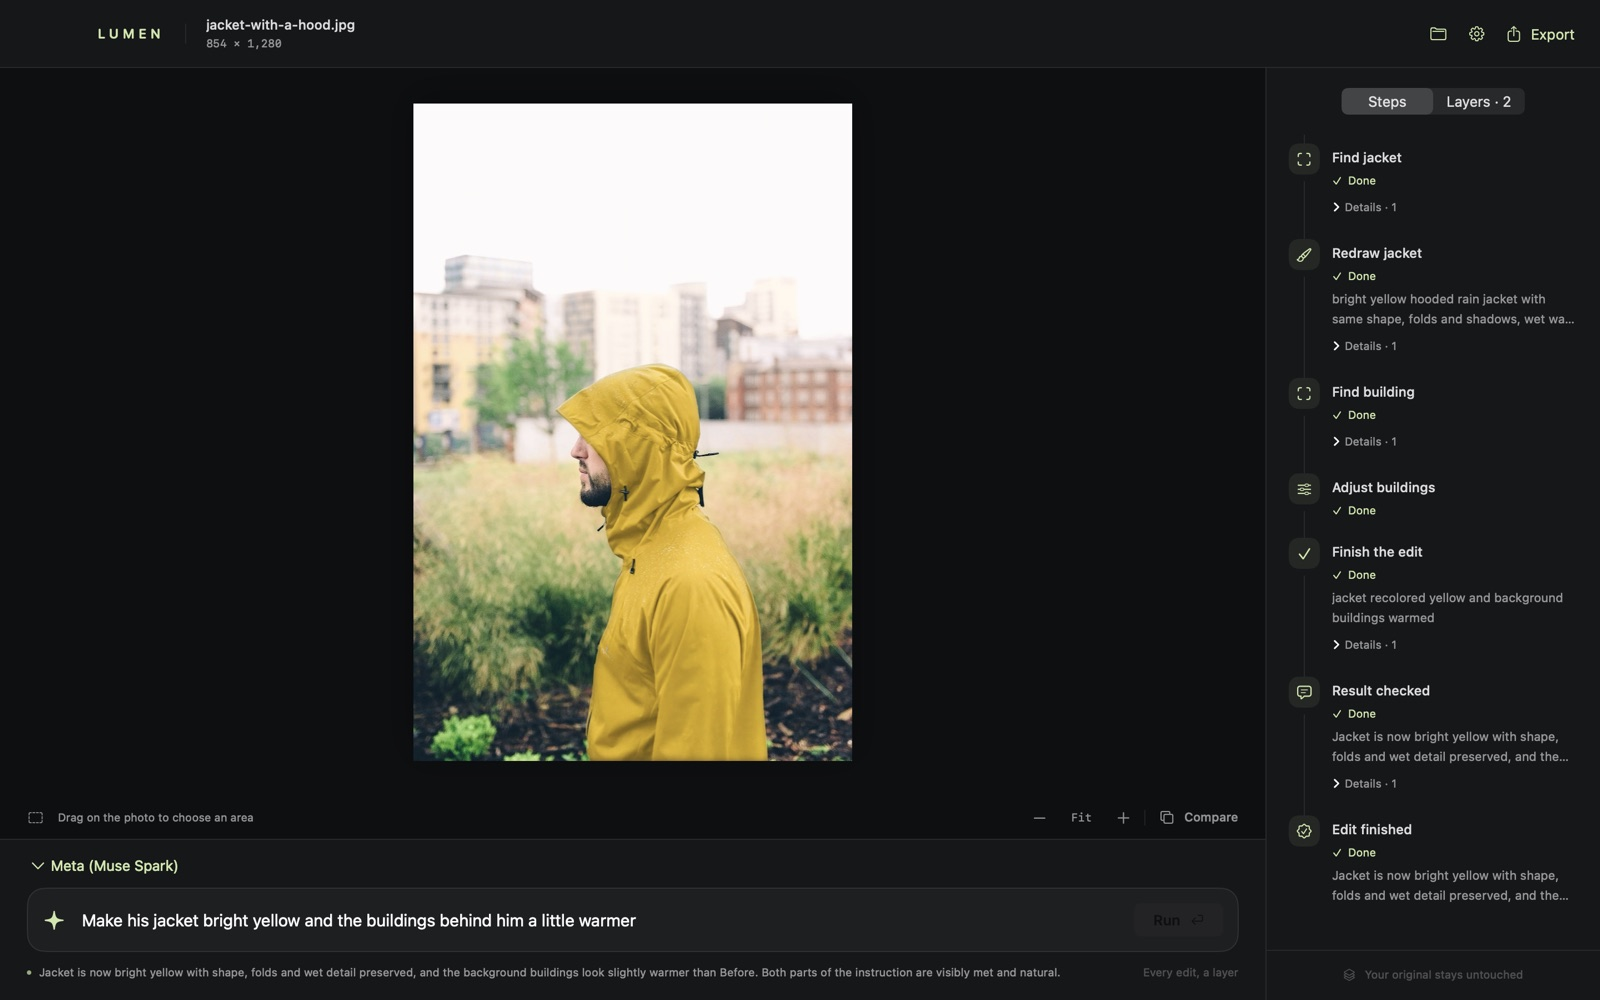
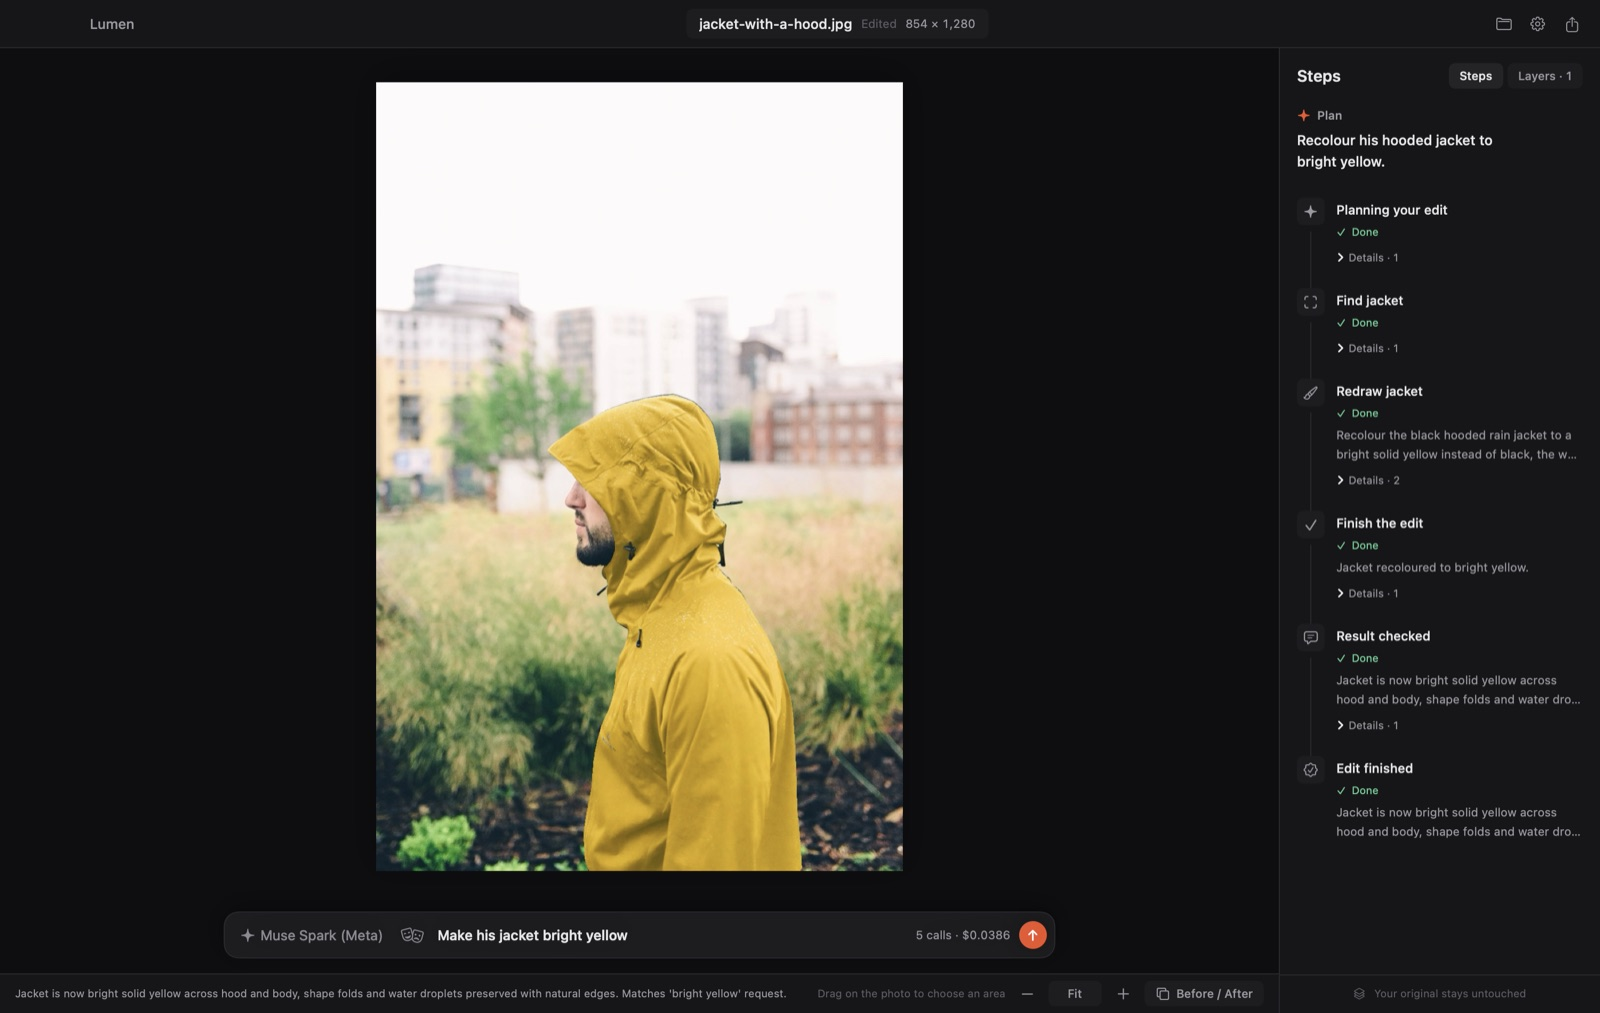
Show Lumen Studio's new look in the README
Studio now matches Photoeditor (#50); the three screenshots were still of
the old design. The selection screenshot shows the fix from #50 on
screen: only the jacket is tinted.

diff --git a/README.md b/README.md
@@ -12,7 +12,7 @@ Every step is a separate, non-destructive layer. You can turn any of them off, a
 
 Lumen is a Swift package with a command-line tool (`lumen`) and a small Mac app (Lumen Studio).
 
-![Lumen Studio after "Make his jacket bright yellow and the buildings behind him a little warmer": the plan, each step with its model and time, and the result Muse Spark checked](docs/images/studio-finished.jpg)
+![Lumen Studio after "Make his jacket bright yellow": the plan, each step with its model and time, and the result Muse Spark checked](docs/images/studio-finished.jpg)
 
 ## What existed before, and what is new
 
